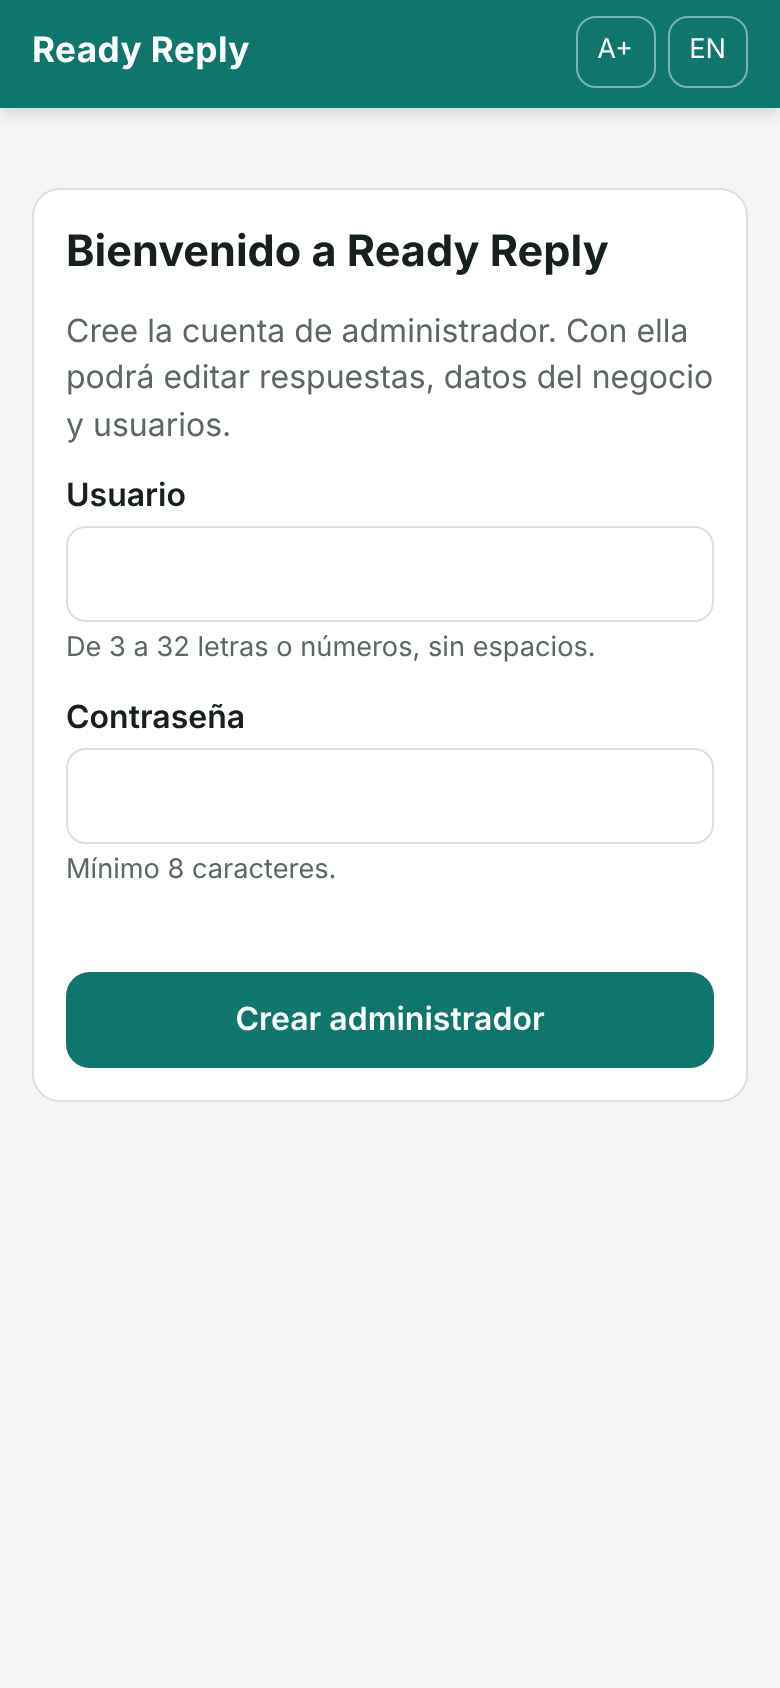
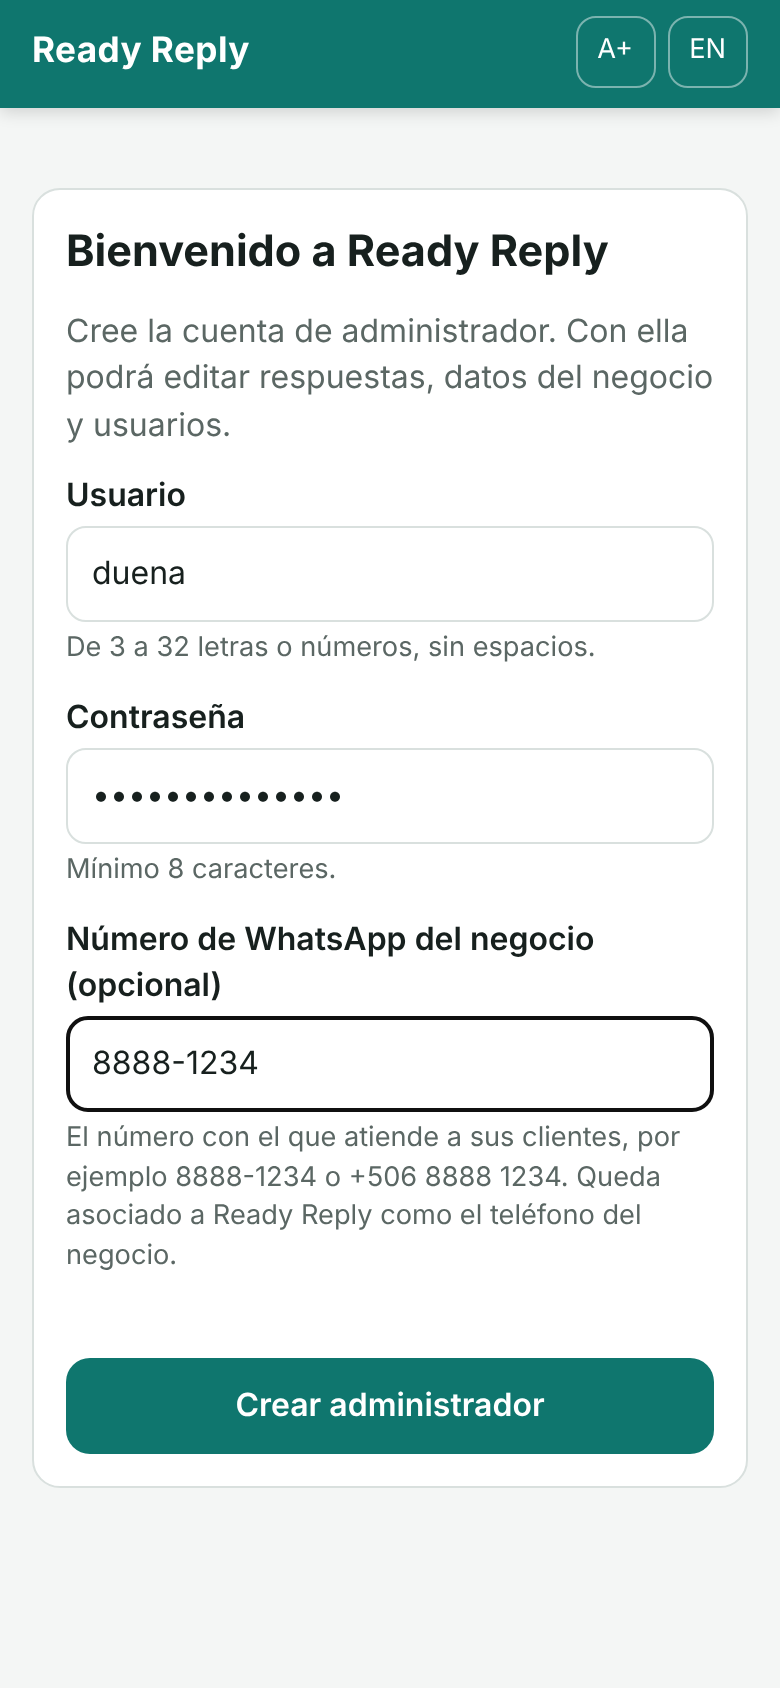
Registration links the business WhatsApp number; welcome screen with next steps

diff --git a/readyreply/web/static/js/views/auth.js b/readyreply/web/static/js/views/auth.js
@@ -11,36 +11,44 @@ const LOGIN_FORM = {
   passwordAutocomplete: "current-password", usernameHint: null, passwordHint: null,
 };
 
-function credentialsForm(options, onSubmit) {
+function credentialsForm(options, onSubmit, extraFields = []) {
   const username = h("input", { name: "username", autocomplete: "username", required: true, maxlength: 32 });
   const password = h("input", { name: "password", type: "password", required: true,
     autocomplete: options.passwordAutocomplete, maxlength: 128 });
   return submitForm({
     className: "panel auth-panel",
     submitLabel: t(options.submit),
-    onSubmit: () => onSubmit(username.value, password.value),
+    onSubmit: () => onSubmit({ username: username.value, password: password.value }),
   },
   h("h1", {}, t(options.title)), h("p", { class: "muted" }, t(options.intro)),
   field(t("auth.username"), username, options.usernameHint && t(options.usernameHint)),
-  field(t("auth.password"), password, options.passwordHint && t(options.passwordHint)));
+  field(t("auth.password"), password, options.passwordHint && t(options.passwordHint)),
+  extraFields);
 }
 
-async function signIn(url, username, password, onSignedIn) {
+async function signIn(url, body, onSignedIn) {
   const status = await api.get("/api/setup/status");
   setCsrf(status.csrf_token);
-  const me = await api.post(url, { username, password });
+  const me = await api.post(url, body);
   setCsrf(me.csrf_token);
   onSignedIn(me);
 }
 
 export function renderSetup(root, onSignedIn) {
+  const whatsapp = h("input", { name: "whatsapp", type: "tel", inputmode: "tel", autocomplete: "tel",
+    maxlength: 40, placeholder: "8888-1234" });
+  const afterSetup = (me) => {
+    window.location.hash = "#/welcome";
+    onSignedIn(me);
+  };
   show(root, credentialsForm(SETUP_FORM,
-    (username, password) => signIn("/api/setup", username, password, onSignedIn)));
+    (credentials) => signIn("/api/setup", { ...credentials, whatsapp: whatsapp.value }, afterSetup),
+    [field(t("setup.whatsapp"), whatsapp, t("setup.whatsapp_hint"))]));
 }
 
 export function renderLogin(root, onSignedIn, reason) {
   const form = credentialsForm(LOGIN_FORM,
-    (username, password) => signIn("/api/auth/login", username, password, onSignedIn));
+    (credentials) => signIn("/api/auth/login", credentials, onSignedIn));
   if (reason === "auth.session_expired") {
     form.insertBefore(h("p", { class: "warning" }, t("login.expired")), form.children[1]);
   }

diff --git a/readyreply/web/static/js/views/welcome.js b/readyreply/web/static/js/views/welcome.js
@@ -1,0 +1,33 @@
+import { h, show } from "../dom.js";
+import { t } from "../i18n.js";
+import { state } from "../state.js";
+
+// Shown right after registration: confirms the WhatsApp number and lists the next steps.
+const STEPS = [
+  { text: "welcome.step_business", links: [["welcome.go_business", "#/business"]] },
+  { text: "welcome.step_answers",
+    links: [["welcome.create_answer", "#/answers/new"], ["welcome.try_demo", "#/data"]] },
+  { text: "welcome.step_phone", links: [["welcome.open_phone", "#/phone"]] },
+  { text: "welcome.step_whatsapp", links: [["welcome.start", "#/search"]] },
+];
+
+function numberStatus() {
+  const phone = state.variables.find((variable) => variable.key === "phone")?.value.trim();
+  if (!phone) return h("p", { class: "muted" }, t("welcome.number_missing"));
+  return h("p", { class: "linked", role: "status" },
+    h("span", { class: "linked-check", "aria-hidden": "true" }, "✓"),
+    h("span", {}, t("welcome.number_linked", { number: phone })));
+}
+
+function step({ text, links }) {
+  return h("li", { class: "step" }, h("p", {}, t(text)),
+    h("div", { class: "row" }, links.map(([label, href], index) =>
+      h("a", { class: index === 0 ? "button small" : "button small secondary", href }, t(label)))));
+}
+
+export function renderWelcome(root) {
+  show(root, h("section", { class: "panel welcome" },
+    h("h1", {}, t("welcome.title")), numberStatus(),
+    h("h2", {}, t("welcome.steps_title")),
+    h("ol", { class: "steps" }, STEPS.map(step))));
+}

diff --git a/readyreply/web/static/js/app.js b/readyreply/web/static/js/app.js
@@ -12,6 +12,7 @@ import { renderStats } from "./views/stats.js";
 import { renderSynonyms } from "./views/synonyms.js";
 import { renderUnanswered } from "./views/unanswered.js";
 import { renderUsers } from "./views/users.js";
+import { renderWelcome } from "./views/welcome.js";
 
 const view = () => document.getElementById("view");
 const LARGE_TEXT_KEY = "rr.largeText";
@@ -27,6 +28,7 @@ const ROUTES = {
   data: { render: renderData, admin: true, icon: "📦", more: true },
   phone: { render: renderPhone, admin: true, icon: "📱", more: true },
   more: { render: renderMore, admin: true, icon: "☰", mobileOnly: true },
+  welcome: { render: renderWelcome, admin: true, icon: "👋", hidden: true },
 };
 
 function allowedRoutes() {
@@ -42,7 +44,7 @@ function renderMore(root) {
 function renderNav(active) {
   const nav = document.getElementById("nav");
   nav.hidden = false;
-  show(nav, allowedRoutes().map(([name, route]) => h("a", {
+  show(nav, allowedRoutes().filter(([, route]) => !route.hidden).map(([name, route]) => h("a", {
     href: `#/${name}`,
     class: `nav-link${route.more ? " more-item" : ""}${route.mobileOnly ? " mobile-only" : ""}`,
     "aria-current": name === active ? "page" : null,

diff --git a/readyreply/web/static/css/app.css b/readyreply/web/static/css/app.css
@@ -175,6 +175,15 @@ fieldset.variable { border: 1px dashed var(--border); border-radius: 12px; displ
 .qr { width: 240px; height: 240px; background: #fff; border-radius: 12px; padding: 8px; }
 .url { font-size: 1.2rem; font-weight: 700; overflow-wrap: anywhere; }
 
+/* Welcome after registration */
+.linked {
+  display: flex; gap: 10px; align-items: flex-start; margin: 0;
+  background: var(--brand-soft); color: var(--brand-strong); border-radius: 12px; padding: 12px 14px; font-weight: 600;
+}
+.linked-check { font-size: 1.3rem; line-height: 1.1; }
+.steps { margin: 0; padding-left: 22px; display: grid; gap: 14px; }
+.step p { margin: 0 0 8px; }
+
 /* Toast */
 .toast {
   position: fixed; left: 50%; bottom: calc(var(--tap) + 28px); transform: translateX(-50%) translateY(20px);

diff --git a/readyreply/application/auth.py b/readyreply/application/auth.py
@@ -21,8 +21,10 @@ from readyreply.domain.errors import (
     UnauthenticatedError,
     persisted_id,
 )
+from readyreply.domain.phone import WhatsAppNumber
 from readyreply.domain.sessions import ADDRESS_MAX_FAILURES, Session, is_login_locked
 from readyreply.domain.users import Role, User, clean_username, validate_password
+from readyreply.domain.variables import PHONE_KEY, with_value
 
 
 @dataclass(frozen=True, slots=True)
@@ -98,17 +100,27 @@ class SetupFirstAdmin:
         self._business = business
         self._lock = threading.Lock()
 
-    def execute(self, username: str, password: str) -> NewSession:
+    def execute(self, username: str, password: str, whatsapp: str | None) -> NewSession:
         clean = clean_username(username)
         validate_password(password)
+        number = WhatsAppNumber.parse(whatsapp) if whatsapp else None
         with self._lock, self._uow_factory() as uow:
             if uow.users.any_exists():
                 raise ConflictError("setup.already_done")
+            business_id = self._business.current()
             password_hash = self._hasher.hash(password)
-            admin = User(None, self._business.current(), clean, password_hash, Role.ADMIN, True)
+            admin = User(None, business_id, clean, password_hash, Role.ADMIN, True)
             new_session = self._starter.start(uow, uow.users.add(admin))
+            if number is not None:
+                _associate_number(uow, business_id, number)
             uow.commit()
             return new_session
+
+
+def _associate_number(uow: UnitOfWork, business_id: int, number: WhatsAppNumber) -> None:
+    """The number becomes the business phone, so every answer that uses {phone} has it."""
+    variables = uow.variables.list_all(business_id)
+    uow.variables.replace_all(business_id, with_value(variables, PHONE_KEY, number.display))
 
 
 @dataclass(frozen=True, slots=True)

diff --git a/readyreply/domain/phone.py b/readyreply/domain/phone.py
@@ -1,0 +1,46 @@
+"""The business's WhatsApp number, entered once at registration."""
+
+from dataclasses import dataclass
+
+from readyreply.domain.errors import InvalidInputError
+
+DEFAULT_COUNTRY_CODE = "506"  # Costa Rica
+LOCAL_NUMBER_DIGITS = 8  # Costa Rican numbers have 8 digits: 8888-1234
+MIN_DIGITS = 8
+MAX_DIGITS = 15  # longest international (E.164) number
+INTERNATIONAL_PREFIX = "00"
+_ALLOWED = frozenset("0123456789 +-().")
+
+
+def _digits_of(text: str) -> str:
+    digits = "".join(char for char in text if char.isdigit())
+    if text.startswith(INTERNATIONAL_PREFIX):
+        digits = digits.removeprefix(INTERNATIONAL_PREFIX)
+    if len(digits) == LOCAL_NUMBER_DIGITS:
+        digits = DEFAULT_COUNTRY_CODE + digits
+    return digits
+
+
+def _display(text: str, digits: str) -> str:
+    local = digits.removeprefix(DEFAULT_COUNTRY_CODE)
+    if digits.startswith(DEFAULT_COUNTRY_CODE) and len(local) == LOCAL_NUMBER_DIGITS:
+        return f"+{DEFAULT_COUNTRY_CODE} {local[:4]} {local[4:]}"
+    return " ".join(text.split()) if text.startswith("+") else f"+{digits}"
+
+
+@dataclass(frozen=True, slots=True)
+class WhatsAppNumber:
+    digits: str
+    """Country code and number, digits only (what wa.me links use)."""
+    display: str
+    """How the number is shown to customers, e.g. "+506 8888 1234"."""
+
+    @classmethod
+    def parse(cls, raw: str) -> "WhatsAppNumber":
+        text = raw.strip()
+        if not text or not set(text) <= _ALLOWED:
+            raise InvalidInputError("setup.invalid_whatsapp")
+        digits = _digits_of(text)
+        if not MIN_DIGITS <= len(digits) <= MAX_DIGITS or digits.startswith("0"):
+            raise InvalidInputError("setup.invalid_whatsapp")
+        return cls(digits, _display(text, digits))

diff --git a/tests/api/test_auth.py b/tests/api/test_auth.py
@@ -173,3 +173,33 @@ def test_admin_promotes_staff(admin: Api, staff: Api) -> None:
 def test_invalid_payload_has_code(admin: Api) -> None:
     response = admin.post("/api/answers", json={"title": 5})
     assert (response.status_code, response.json()["code"]) == (422, "request.invalid")
+
+
+def test_setup_associates_the_whatsapp_number_immediately(anon: Api) -> None:
+    csrf = anon.client.get("/api/setup/status").json()["csrf_token"]
+    response = anon.client.post(
+        "/api/setup",
+        json={"username": "duena", "password": "clave-segura-1", "whatsapp": "8888-1234"},
+        headers={"x-csrf-token": csrf},
+    )
+    assert response.status_code == 200
+    anon.csrf = response.json()["csrf_token"]
+    phone = next(v for v in anon.get("/api/variables").json() if v["key"] == "phone")
+    assert phone["value"] == "+506 8888 1234"
+
+
+def test_setup_rejects_an_invalid_whatsapp_number_and_creates_nothing(anon: Api) -> None:
+    csrf = anon.client.get("/api/setup/status").json()["csrf_token"]
+    response = anon.client.post(
+        "/api/setup",
+        json={"username": "duena", "password": "clave-segura-1", "whatsapp": "123"},
+        headers={"x-csrf-token": csrf},
+    )
+    assert (response.status_code, response.json()["code"]) == (422, "setup.invalid_whatsapp")
+    assert anon.get("/api/setup/status").json()["needs_setup"] is True
+
+
+def test_setup_without_whatsapp_number_still_works(anon: Api) -> None:
+    assert anon.setup_admin().status_code == 200
+    phone = next(v for v in anon.get("/api/variables").json() if v["key"] == "phone")
+    assert phone["value"] == ""

diff --git a/tests/e2e/test_flows.py b/tests/e2e/test_flows.py
@@ -235,3 +235,28 @@ def test_two_seconds_with_1000_answers(page: Page, live_server: LiveServer) -> N
     elapsed = time.perf_counter() - started
     assert "8888-1234" in clipboard(page)
     assert elapsed < 2.0, f"took {elapsed:.2f}s"
+
+
+def test_registration_links_the_whatsapp_number_and_shows_next_steps(
+    page: Page, live_server: LiveServer
+) -> None:
+    page.goto(live_server.url)
+    page.fill("input[name=username]", "duena")
+    page.fill("input[name=password]", "clave-segura-1")
+    page.fill("input[name=whatsapp]", "8888-1234")
+    page.click("button[type=submit]")
+    expect(page.locator("h1")).to_have_text("¡Listo! Ready Reply está configurado")
+    expect(page.locator(".linked")).to_contain_text("+506 8888 1234")
+    expect(page.locator("#nav")).not_to_contain_text("Bienvenida")
+    page.get_by_role("link", name="Completar mis datos").click()
+    phone = page.locator("label.field", has_text="{phone}").locator("textarea")
+    expect(phone).to_have_value("+506 8888 1234")
+
+
+def test_registration_rejects_an_invalid_number(page: Page, live_server: LiveServer) -> None:
+    page.goto(live_server.url)
+    page.fill("input[name=username]", "duena")
+    page.fill("input[name=password]", "clave-segura-1")
+    page.fill("input[name=whatsapp]", "123")
+    page.click("button[type=submit]")
+    expect(page.locator(".form-error")).to_contain_text("Número de WhatsApp inválido")

diff --git a/tests/unit/test_phone.py b/tests/unit/test_phone.py
@@ -1,0 +1,33 @@
+"""Business WhatsApp number given at registration."""
+
+import pytest
+
+from readyreply.domain.errors import InvalidInputError
+from readyreply.domain.phone import WhatsAppNumber
+
+
+@pytest.mark.parametrize(
+    ("raw", "digits", "shown"),
+    [
+        ("8888-1234", "50688881234", "+506 8888 1234"),
+        ("8888 1234", "50688881234", "+506 8888 1234"),
+        ("+506 8888-1234", "50688881234", "+506 8888 1234"),
+        ("(506) 8888 1234", "50688881234", "+506 8888 1234"),
+        ("00506 88881234", "50688881234", "+506 8888 1234"),
+        ("+52 55 1234 5678", "525512345678", "+52 55 1234 5678"),
+        ("+1 (415) 555-0100", "14155550100", "+1 (415) 555-0100"),
+    ],
+)
+def test_numbers_are_normalized(raw: str, digits: str, shown: str) -> None:
+    number = WhatsAppNumber.parse(raw)
+    assert number.digits == digits
+    assert number.display == shown
+
+
+@pytest.mark.parametrize(
+    "raw", ["", "123", "8888-12345678901234", "abc-defg", "88881234x", "+0 8888 1234"]
+)
+def test_invalid_numbers(raw: str) -> None:
+    with pytest.raises(InvalidInputError) as error:
+        WhatsAppNumber.parse(raw)
+    assert error.value.code == "setup.invalid_whatsapp"

diff --git a/readyreply/api/routers/auth.py b/readyreply/api/routers/auth.py
@@ -6,7 +6,7 @@ from fastapi import APIRouter, Depends, Request, Response
 
 from readyreply.api.cookies import set_private_cookie
 from readyreply.api.deps import ContainerDep, SessionDep, verify_pre_session_csrf
-from readyreply.api.schemas import Credentials, MeOut, SetupStatusOut
+from readyreply.api.schemas import Credentials, MeOut, SetupIn, SetupStatusOut
 from readyreply.api.security import CSRF_COOKIE, SESSION_COOKIE
 from readyreply.application.auth import NewSession
 from readyreply.config import Settings
@@ -34,10 +34,8 @@ def setup_status(response: Response, container: ContainerDep) -> SetupStatusOut:
 
 
 @router.post("/setup")
-def setup(
-    body: Credentials, response: Response, container: ContainerDep, _: PreSessionCsrf
-) -> MeOut:
-    new = container.auth.setup.execute(body.username, body.password)
+def setup(body: SetupIn, response: Response, container: ContainerDep, _: PreSessionCsrf) -> MeOut:
+    new = container.auth.setup.execute(body.username, body.password, body.whatsapp or None)
     return _signed_in(response, new, container.settings)
 
 

diff --git a/readyreply/domain/variables.py b/readyreply/domain/variables.py
@@ -2,14 +2,15 @@
 
 import re
 from collections.abc import Sequence
-from dataclasses import dataclass
+from dataclasses import dataclass, replace
 
 from readyreply.domain.errors import InvalidInputError
 from readyreply.domain.templates import KEY_PATTERN
 from readyreply.domain.text import clean_text, is_blank
 
 BUSINESS_NAME_KEY = "name"
-BUILTIN_KEYS = (BUSINESS_NAME_KEY, "hours", "address", "sinpe", "phone", "prices")
+PHONE_KEY = "phone"
+BUILTIN_KEYS = (BUSINESS_NAME_KEY, "hours", "address", "sinpe", PHONE_KEY, "prices")
 VALUE_MAX = 2000
 LABEL_MAX = 60
 _KEY = re.compile(rf"^{KEY_PATTERN}$")
@@ -25,6 +26,10 @@ class Variable:
 
 def builtin_variables() -> list[Variable]:
     return [Variable(key=key, label="", value="", builtin=True) for key in BUILTIN_KEYS]
+
+
+def with_value(variables: Sequence[Variable], key: str, value: str) -> list[Variable]:
+    return [replace(v, value=value) if v.key == key else v for v in variables]
 
 
 def values_by_key(variables: Sequence[Variable]) -> dict[str, str]:

diff --git a/scripts/capture_tour.py b/scripts/capture_tour.py
@@ -84,8 +84,13 @@ def admin_tour(tour: Tour) -> None:
     page = tour.page
     page.goto(tour.url)
     expect(page.locator("h1")).to_have_text("Bienvenido a Ready Reply")
+    page.fill("input[name=username]", ADMIN[0])
+    page.fill("input[name=password]", ADMIN[1])
+    page.fill("input[name=whatsapp]", "8888-1234")
     tour.shot("01-crear-administrador")
-    tour.sign_in(*ADMIN)
+    page.click("button[type=submit]")
+    expect(page.locator(".linked")).to_contain_text("+506 8888 1234")
+    tour.shot("01b-bienvenida-numero-asociado")
     tour.go("data")
     tour.shot("02-cargar-datos-de-ejemplo")
     page.click("[data-demo=soda]")
